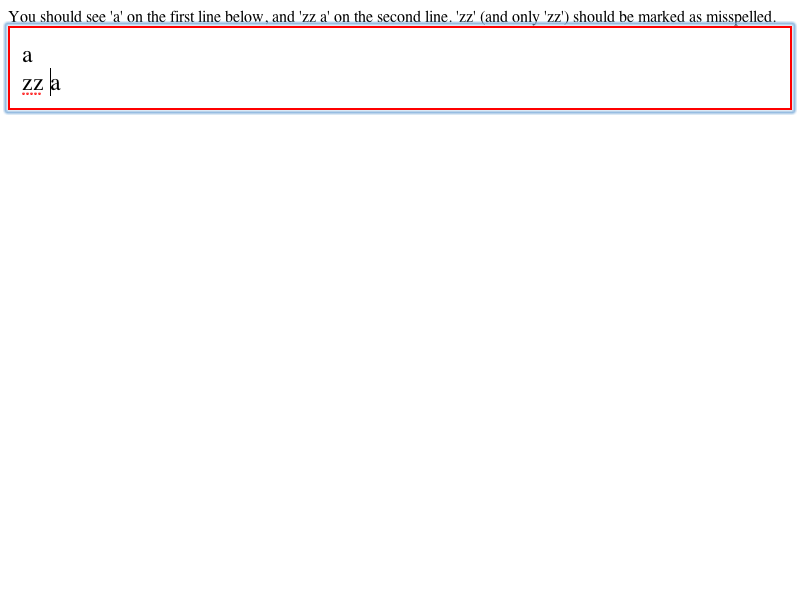
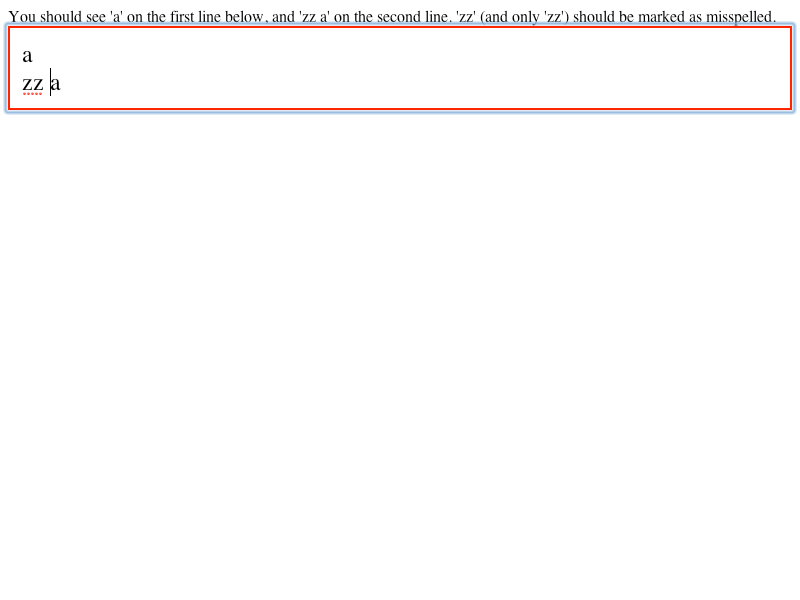
Center misspelling dots across width of word https://bugs.webkit.org/show_bug.cgi?id=122046
Patch by Myles C. Maxfield <mmaxfield@apple.com> on 2013-10-01
Reviewed by Darin Adler.

Source/WebCore:

Test: editing/spelling/spelling.html

* platform/graphics/GraphicsContext.h:
* platform/graphics/mac/GraphicsContextMac.mm:
(WebCore::GraphicsContext::drawLineForDocumentMarker):

LayoutTests:

This patch only rebaselines a single test. I would have rebaselined
the rest of the tests, but they seem to be affected by
webkit.org/b/122146. I don't want to commit incorrect expected results.

* platform/mac/editing/spelling/spelling-expected.png:

git-svn-id: https://svn.webkit.org/repository/webkit/trunk@156716 268f45cc-cd09-0410-ab3c-d52691b4dbfc

Changed region(s): [[0.0, 0.03, 1.0, 0.06], [0.0312, 0.15, 0.9688, 0.21]]

diff --git a/Source/WebCore/platform/graphics/mac/GraphicsContextMac.mm b/Source/WebCore/platform/graphics/mac/GraphicsContextMac.mm
@@ -146,6 +146,8 @@ void GraphicsContext::drawLineForDocumentMarker(const FloatPoint& point, float w
         default:
             return;
     }
+    
+    FloatPoint offsetPoint = point;
 
     // Make sure to draw only complete dots.
     // NOTE: Code here used to shift the underline to the left and increase the width
@@ -155,8 +157,10 @@ void GraphicsContext::drawLineForDocumentMarker(const FloatPoint& point, float w
     if (usingDot) {
         // allow slightly more considering that the pattern ends with a transparent pixel
         float widthMod = fmodf(width, patternWidth);
-        if (patternWidth - widthMod > cMisspellingLinePatternGapWidth)
+        if (patternWidth - widthMod > cMisspellingLinePatternGapWidth) {
+            offsetPoint.move(widthMod / 2, 0);
             width -= widthMod;
+        }
     }
     
     // FIXME: This code should not use NSGraphicsContext currentContext
@@ -172,9 +176,9 @@ void GraphicsContext::drawLineForDocumentMarker(const FloatPoint& point, float w
 
     [patternColor set];
 
-    wkSetPatternPhaseInUserSpace(context, point);
+    wkSetPatternPhaseInUserSpace(context, offsetPoint);
 
-    NSRectFillUsingOperation(NSMakeRect(point.x(), point.y(), width, patternHeight), NSCompositeSourceOver);
+    NSRectFillUsingOperation(NSMakeRect(offsetPoint.x(), offsetPoint.y(), width, patternHeight), NSCompositeSourceOver);
     
     CGContextRestoreGState(context);
 }
